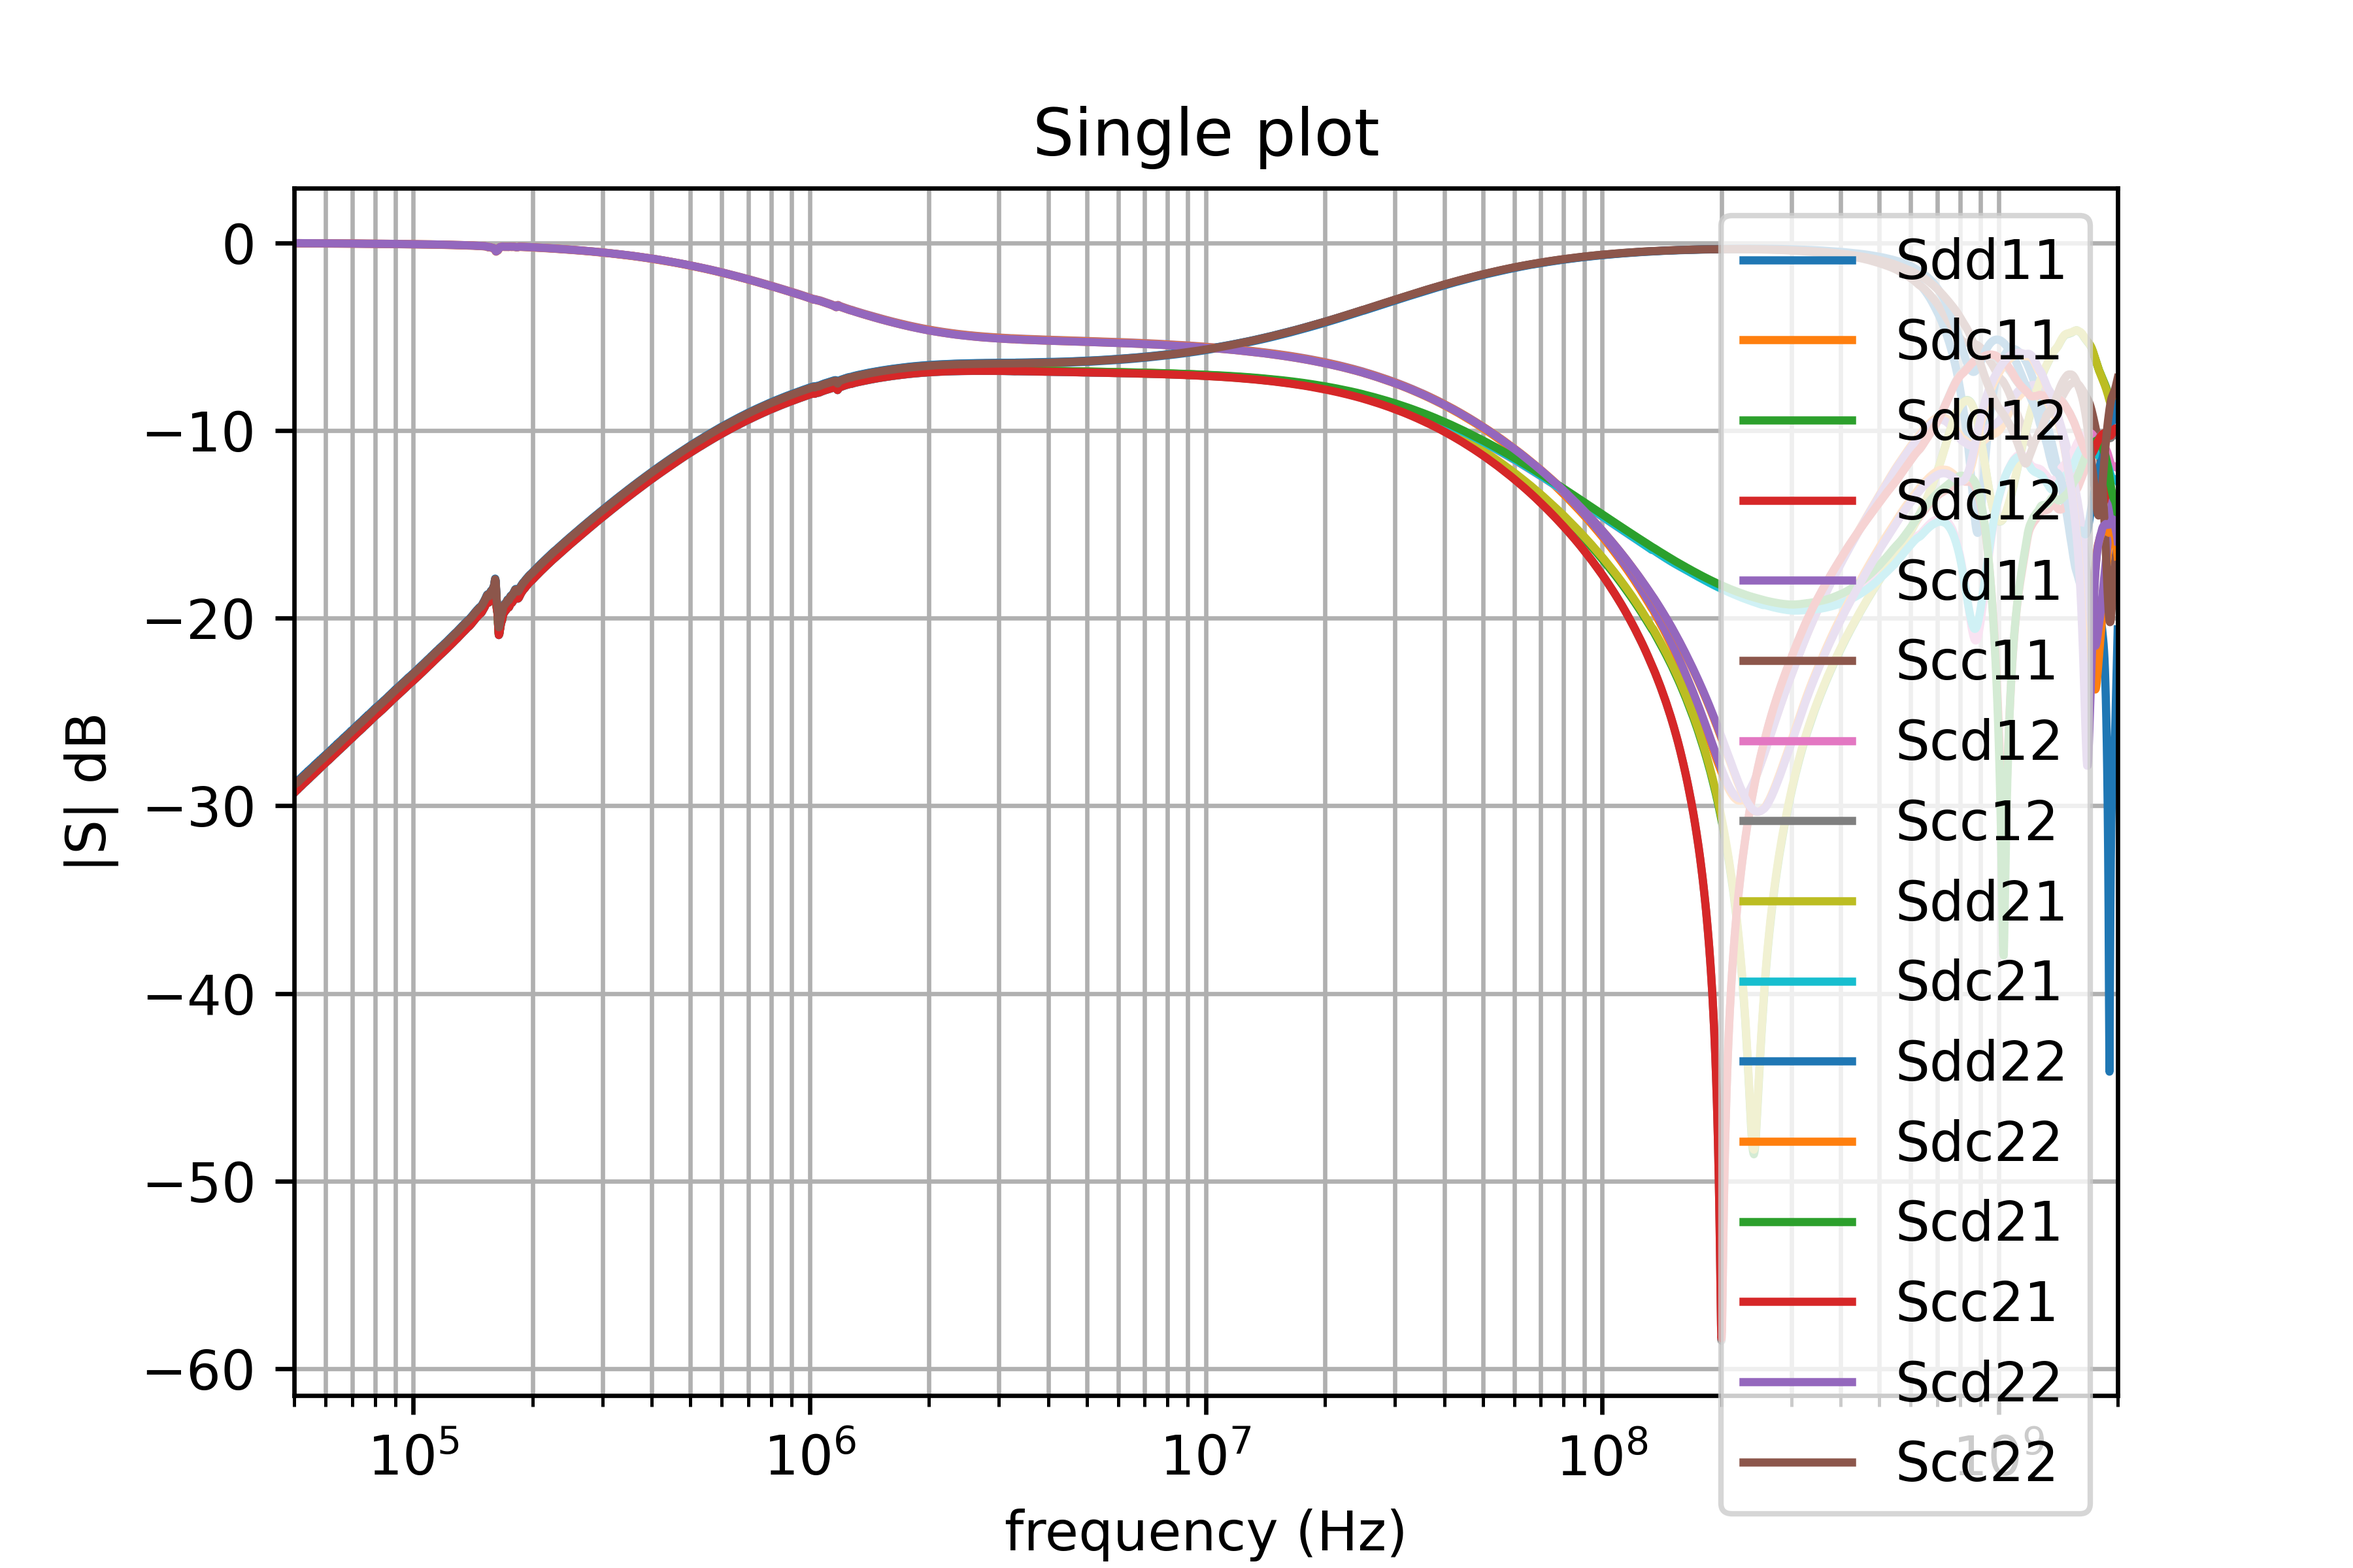
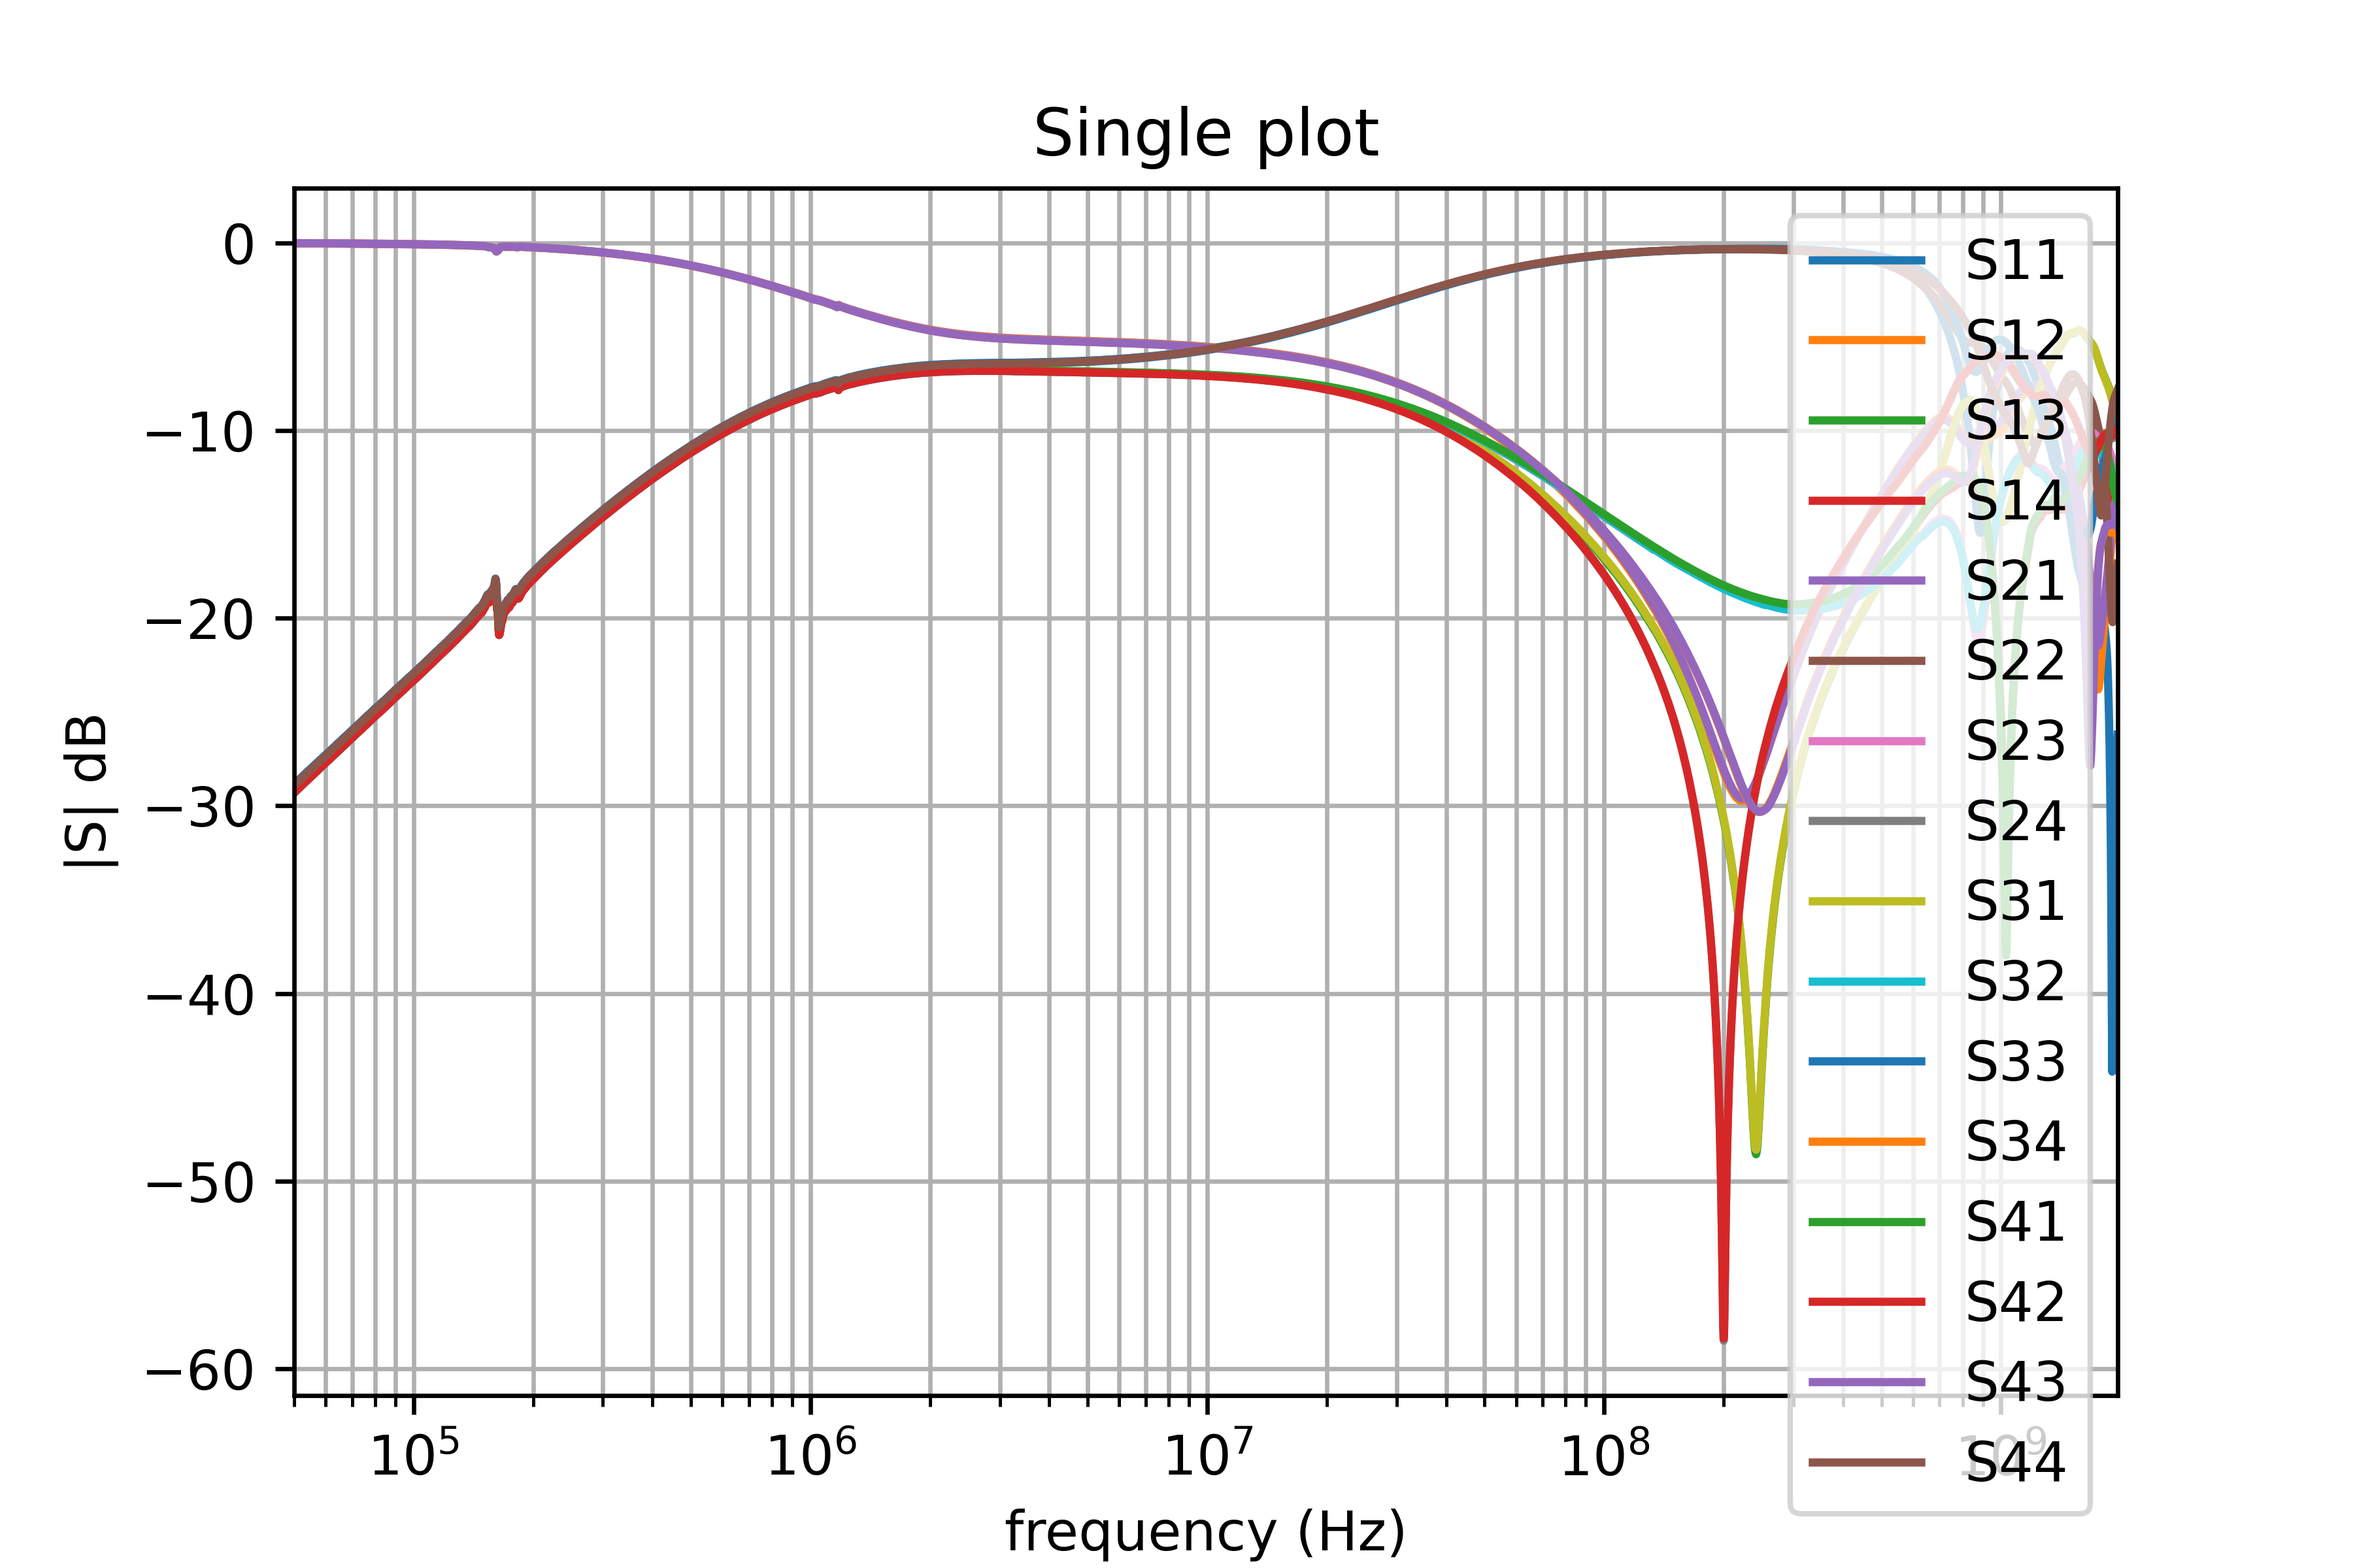
More beautiful test script

diff --git a/Test_function.py b/Test_function.py
@@ -1,9 +1,9 @@
 # -*- coding: utf-8 -*-
 """
-last change: 13.11.2025
+last change: 14.11.2025
 Author(s): Christoph Maier
 
-@author: christoph_m
+This is the test function to show how to use the functions. 
 """
 
 import skrf as rf
@@ -14,45 +14,81 @@ if __name__ =='__main__':
     # define test files
     path = 'Examples/'
     
+    # define test networks
     ntwk_1 = rf.Network(path + 'exam_1.s4p') # 4-port, 4001 pnt
     ntwk_2 = rf.Network(path + 'exam_2.s4p') # 4-port, 4001 pnt
     ntwk_3 = rf.Network(path + 'exam_3.s4p') # 4-port, 3995 pnt
     ntwk_4 = rf.Network(path + 'exam_4.s2p') # 2-port, 4001 pnt
     ntwk_5 = rf.Network(path + 'exam_5.s4p') # empty
     
+    ###########################################################################
+    ####################### Network Extraction examples #######################
+    ###########################################################################
     
-    ### Example useages ###
-    # calculate the normalized mean-square error of two network objects 
-    # Flags control if answer is in dB or not
-    NMSE_reflect, NMSE_transm = netman.calc_Sparam_NMSE(ntwk_1, ntwk_2, valuetype = 'dB')
- 
-    # store SParameters out of the network file in separate arrays
-    key= ['Sdd11','Sdc11', 'Sdd12', 'Sdc12', 'Scd11', 'Scc11', 'Scd12', 'Scc12',
+    ##### Extract Mixed-Mode Parameter from the network and store in dict #####
+    key = ['Sdd11','Sdc11', 'Sdd12', 'Sdc12', 'Scd11', 'Scc11', 'Scd12', 'Scc12',
           'Sdd21', 'Sdc21', 'Sdd22', 'Sdc22', 'Scd21', 'Scc21', 'Scd22', 'Scc22']
-    number_ports_1, number_points_1, frequency_1, SParameter_1 = netman.extract_MMparam(ntwk_1, key)
+    [number_ports_MM, number_points_MM,
+     frequency_MM, MMParameter] = netman.extract_MMparam(ntwk_1, key)
     
-    number_ports_2, number_points_2, frequency_2, SParameter_2 = netman.extract_Sparam(ntwk_3)
     
-    # split up SParameters to desired ones
-    SParameter_parts = netman.slice_Sparam(['S11','S12'], SParameter_2)
-
-    # print S-Parameters
-    netman.plot_Sparam(frequency_1, SParameter_1, number_ports_1, how='allinone',
+    ########## Extract S-Parameter from the network and store in dict #########
+    [number_ports_S, number_points_S,
+     frequency_S, SParameter] = netman.extract_Sparam(ntwk_3)
+    
+    
+    
+    ###########################################################################
+    ###################### Network manipulation examples ######################
+    ###########################################################################
+    
+    ###### Calculate normalized mean-square error of two network objects ######
+    [NMSE_reflect, NMSE_transm] = netman.calc_Sparam_NMSE(
+        ntwk_1, ntwk_2, valuetype = 'dB')
+    
+    
+    
+    ###########################################################################
+    ############ S-Parameter and MM-Parameter manipulation examples ###########
+    ########################################################################### 
+    
+    ############### Split up S-Parameter dict into desired ones ###############
+    key = ['S11','S12']
+    SParameter_parts = netman.slice_Sparam(key, SParameter)
+    
+    
+    ######### Transform 4-Port S-Parameters into Mixed-Mode Parameters ########
+    MMParameter_calc = netman.S_to_MM(SParameter)
+    
+    
+    
+    ###########################################################################
+    ########################### Printing  examples ############################
+    ########################################################################### 
+    
+    #################### print S-Parameters in single plot ####################
+    netman.plot_Sparam(frequency_S, SParameter, number_ports_S, how='allinone',
                        spacing='log', valuetype='dB',
                        title='Single plot', xlabel='frequency (Hz)', ylabel='|S| dB',
                        legend='legon', legpos='best',
                        save = 'on', savename='single.png')
 
-    netman.plot_Sparam(frequency_1, SParameter_1, number_ports_1, how='subplot',
+
+    ###################### print S-Parameters in subplots #####################
+    netman.plot_Sparam(frequency_S, SParameter, number_ports_S, how='subplot',
                        spacing='log', valuetype='dB',
                        title='Many Subplots', xlabel='frequency (Hz)', ylabel='|S| dB',
                        legend='legon', legpos='best',
                        save='on', savename='subplot.png')    
     
-    netman.plot_comp_Sparam(frequency_1, SParameter_1, frequency_2, SParameter_2,
-                            number_ports_1, how='subplot',
+    
+    ###################### print comparison of two S-parameter in subplots #####################
+    netman.plot_comp_Sparam(frequency_S, SParameter, frequency_S, SParameter,
+                            number_ports_S, how='subplot',
                             spacing='log', valuetype='dB',
-                            title='Many Subplots', xlabel='frequency (Hz)', ylabel='|S| dB',
-                            legend='legon', legpos='best',
+                            title='Comparison Subplots', xlabel='frequency (Hz)', ylabel='|S| dB',
+                            legend='legon', legpos='best', labels=['meas 1','meas 2'],
                             save='on', savename='compplot.png')
+    
+    
     

diff --git a/plot_functions.py b/plot_functions.py
@@ -196,6 +196,7 @@ def plot_comp_Sparam(f_1, SParams_1, f_2, SParams_2,
                      spacing='lin', valuetype='lin',
                      title='', xlabel='', ylabel='',
                      legend='legoff', legpos='best',
+                     labels=['measurement 1','measurement 2'],
                      save='off', savename='save.png'):
     
     ### single plot ###
@@ -260,7 +261,7 @@ def plot_comp_Sparam(f_1, SParams_1, f_2, SParams_2,
             ax.set_ylabel(ylabel)
             
             if legend  == 'legon':
-                ax.legend(loc=legpos)
+                ax.legend(labels, loc=legpos)
         
         if title != '':
             plt.suptitle(title)
